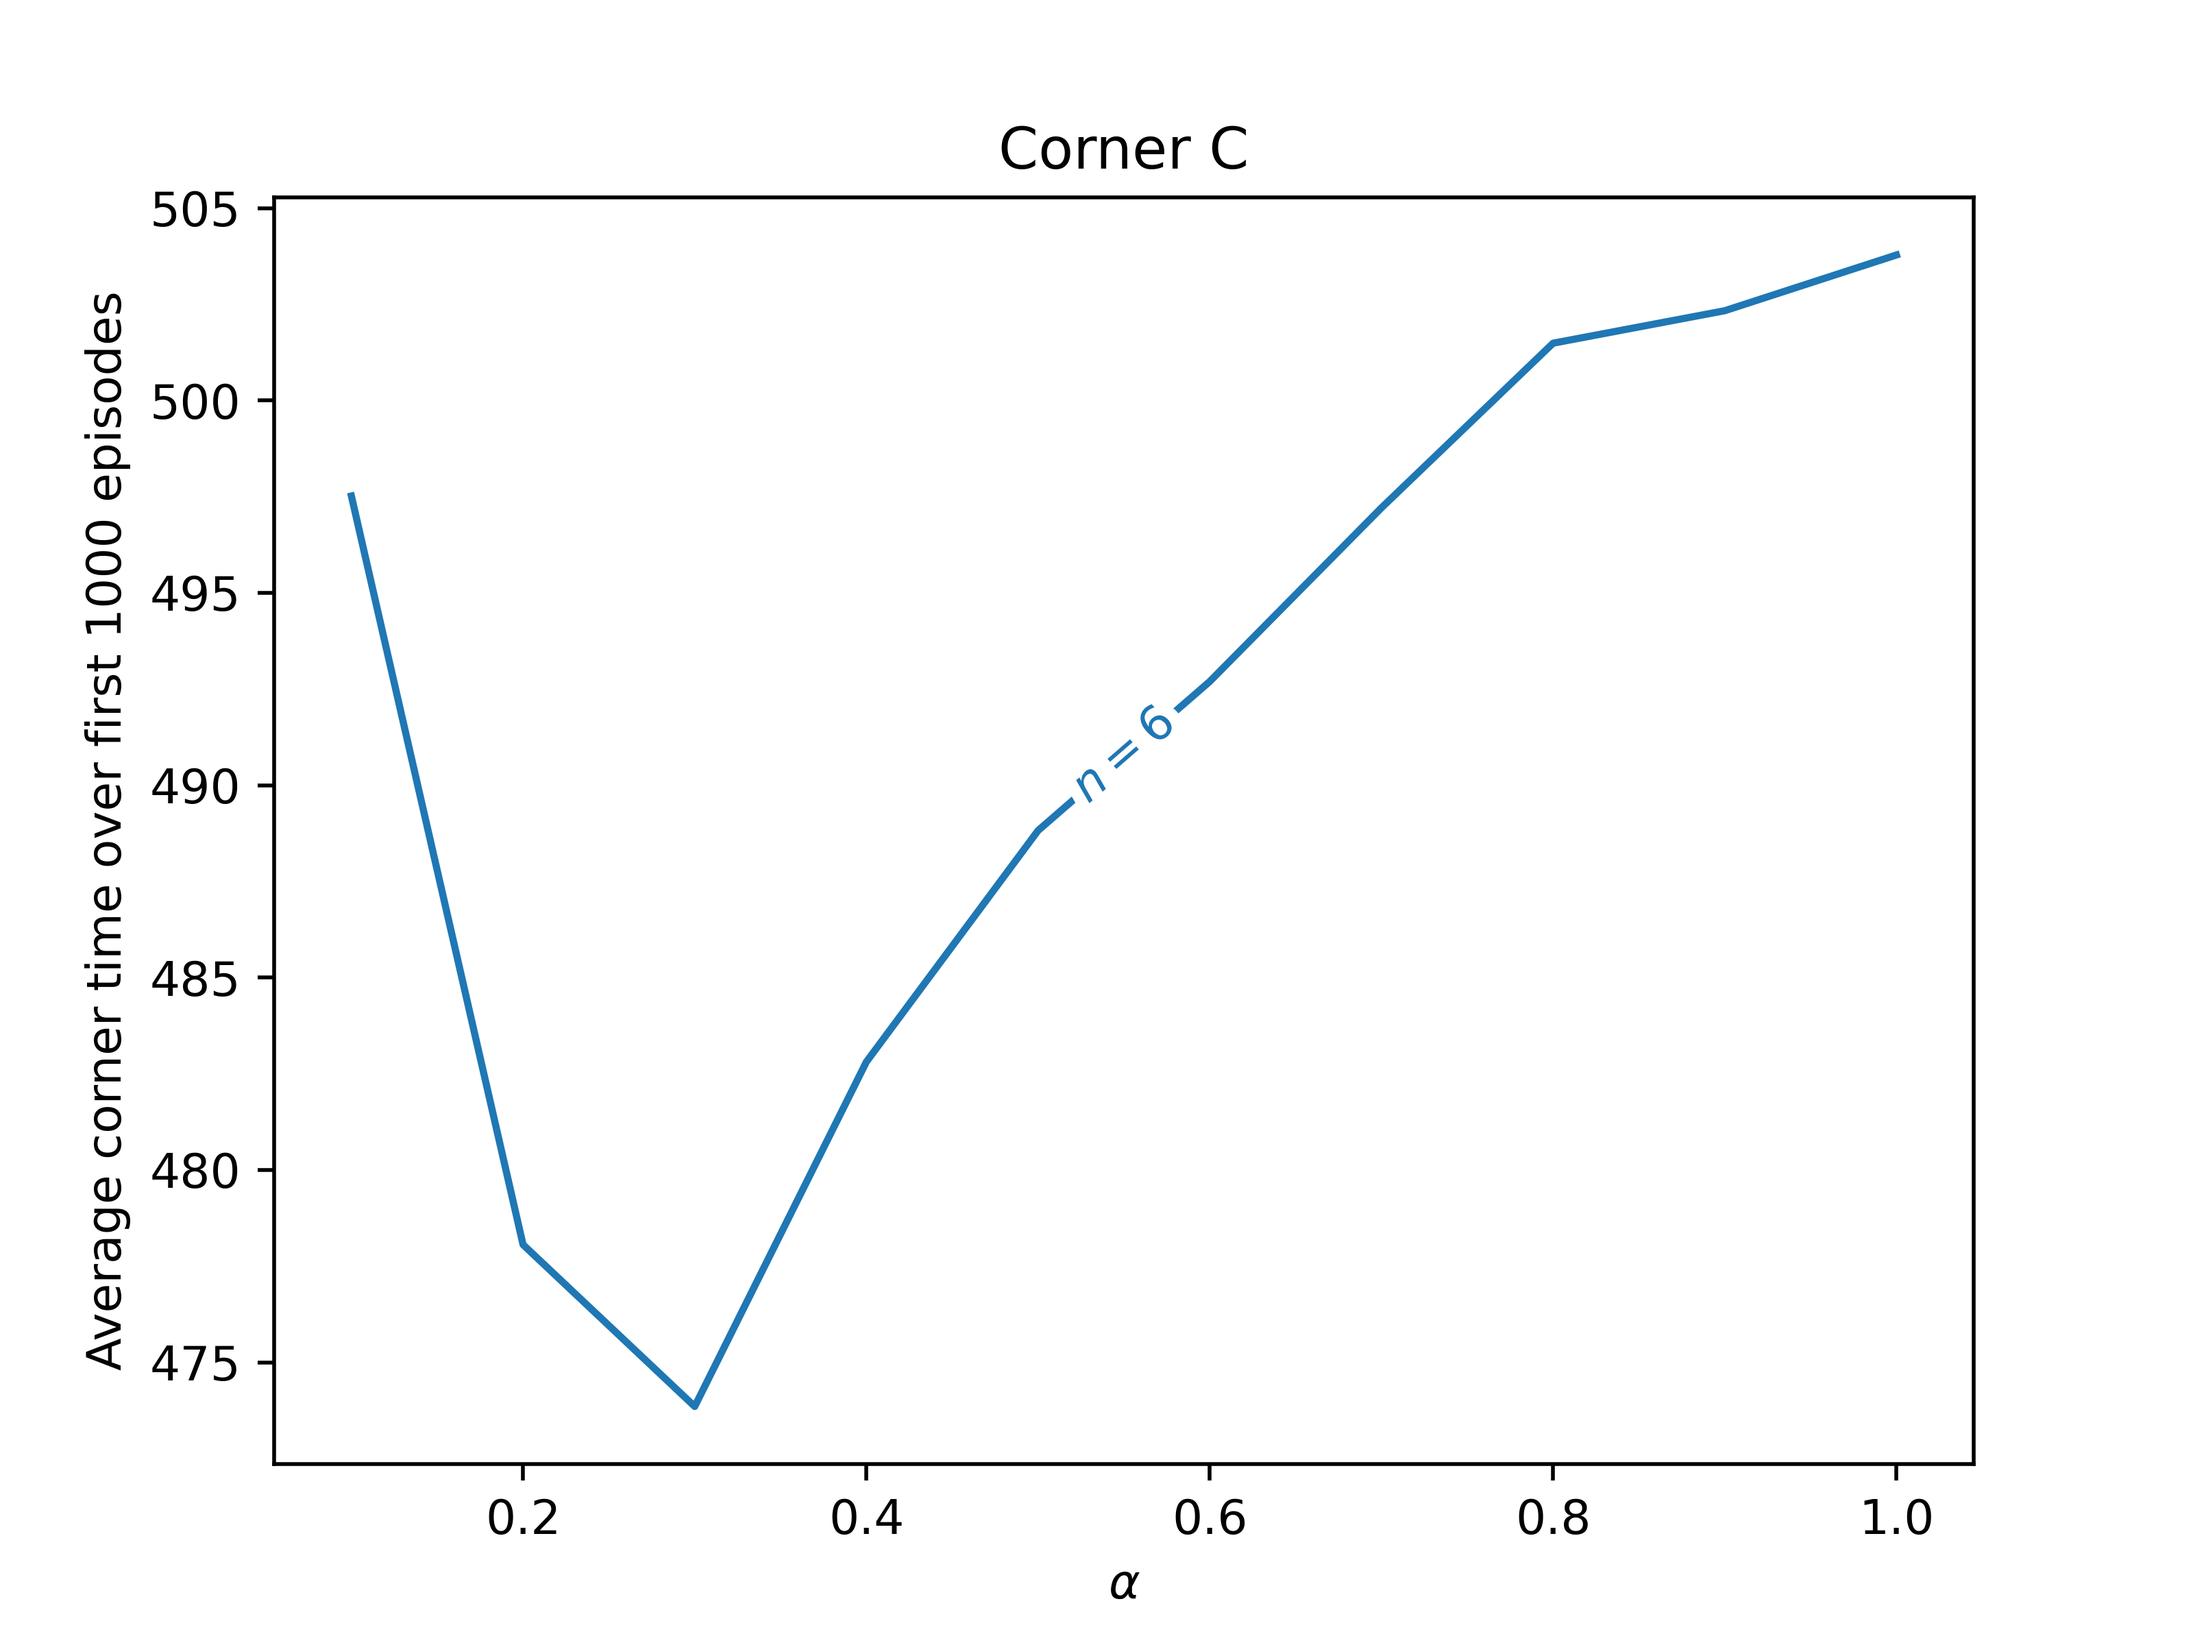
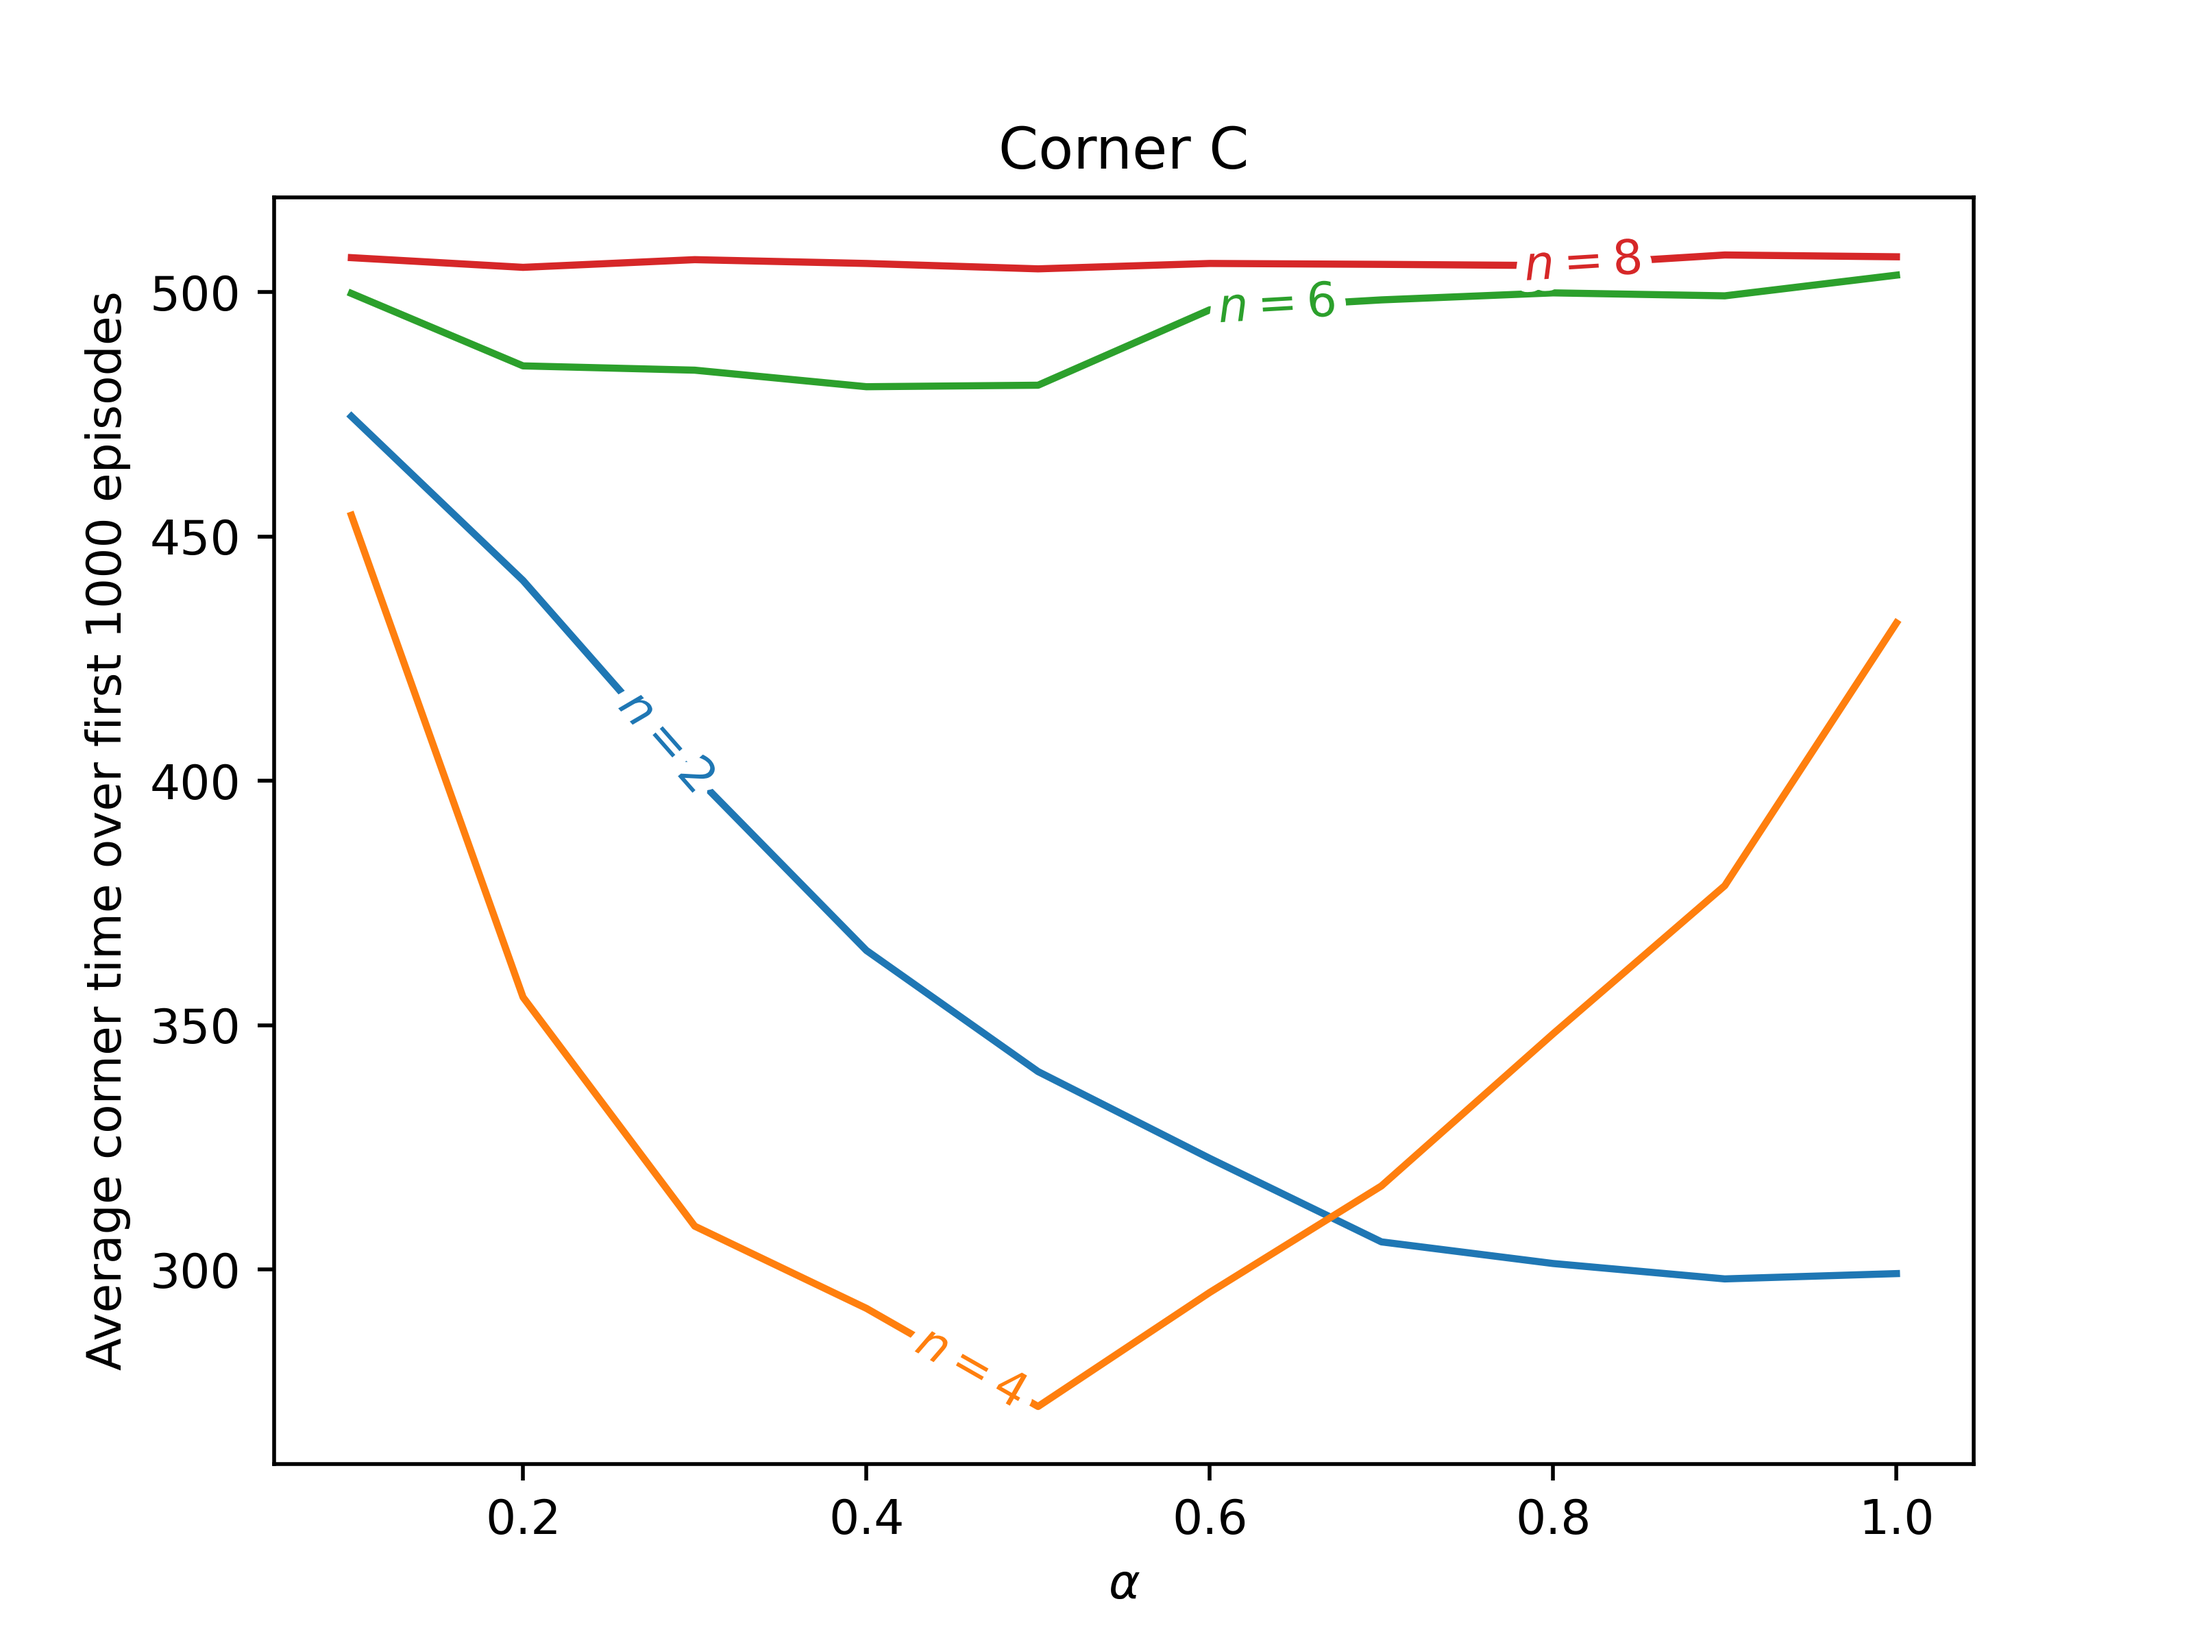
update

diff --git a/lab02/solution.py b/lab02/solution.py
@@ -238,23 +238,23 @@ def main():
     # =====================================================
     # Compute average time for corner C over first 1_000 episodes for different values of `step_no`
     # and `step_size`
-    # ns = [2, 4, 6, 8]
-    # αs = np.arange(0.1, 1.1, 0.1).tolist()
-    # results = {(n, α): None for n, α in product(ns, αs)}
+    ns = [2, 4, 6, 8]
+    αs = np.arange(0.1, 1.1, 0.1).tolist()
+    results = {(n, α): None for n, α in product(ns, αs)}
 
-    # with ProcessPoolExecutor() as executor:
-    #     for n, α, t in executor.map(conduct_experiment, *zip(*product(ns, αs))):
-    #         results[n, α] = t
+    with ProcessPoolExecutor() as executor:
+        for n, α, t in executor.map(conduct_experiment, *zip(*product(ns, αs))):
+            results[n, α] = t
 
-    # # --- Plot results
-    # for n in ns:
-    #     plt.plot(αs, [results[n, α] for α in αs], label=r"$n=$" + f"{n}")
+    # --- Plot results
+    for n in ns:
+        plt.plot(αs, [results[n, α] for α in αs], label=r"$n=$" + f"{n}")
 
-    # labelLines(plt.gca().get_lines())
-    # plt.xlabel(r"$\alpha$")
-    # plt.ylabel("Average corner time over first 1000 episodes")
-    # plt.title("Corner C")
-    # plt.savefig("extra/parametric_study.png", dpi=500)
+    labelLines(plt.gca().get_lines())
+    plt.xlabel(r"$\alpha$")
+    plt.ylabel("Average corner time over first 1000 episodes")
+    plt.title("Corner C")
+    plt.savefig("extra/parametric_study.png", dpi=500)
 
     # CORNER D
     # =====================================================
